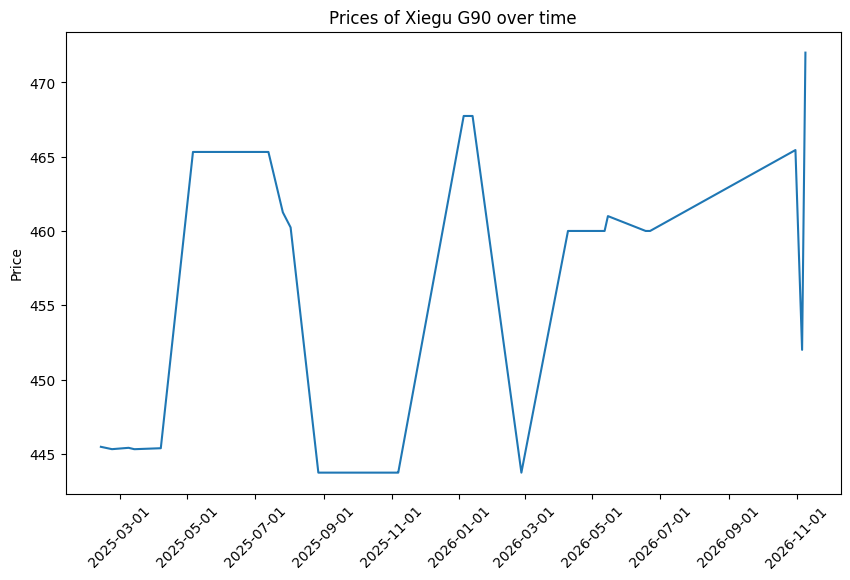
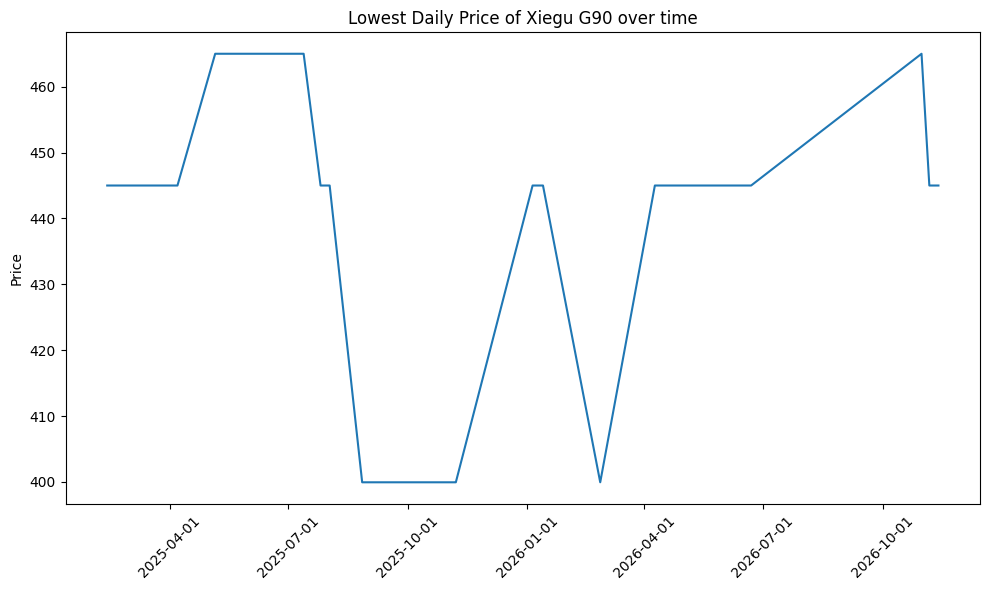
Update G90 prices and enhance scraping logic for improved accuracy and data visualization

diff --git a/scrape.py b/scrape.py
@@ -4,19 +4,22 @@ from bs4 import BeautifulSoup
 from datetime import datetime
 from urllib.parse import urlparse
 import matplotlib.pyplot as plt
+import matplotlib.dates as mdates
 
-urls = ['https://www.hamradio.com/detail.cfm?pid=H0-016772', 
-        'https://www.radioddity.com/products/xiegu-g90-hf-transceiver',
-        'https://www.amazon.com/dp/B08X6Z6KN2', 
-        'https://www.randl.com/index.php?main_page=product_info&products_id=75815']
-hostname = None
+URLS = [
+    'https://www.hamradio.com/detail.cfm?pid=H0-016772',
+    'https://www.radioddity.com/products/xiegu-g90-hf-transceiver',
+    'https://www.amazon.com/dp/B08X6Z6KN2',
+    'https://www.randl.com/index.php?main_page=product_info&products_id=75815'
+]
 
-prices = []
-price = None
+DB_FILE = 'G90_prices.db'
+IMAGE_FILE = 'G90_prices.png'
 
 
-def addToDatabase(price, url):
-	conn = sqlite3.connect('G90_prices.db')
+def add_to_database(price, url):
+	"""Save price to database."""
+	conn = sqlite3.connect(DB_FILE)
 	c = conn.cursor()
 	c.execute('CREATE TABLE IF NOT EXISTS prices (date text, price text, website text)')
 	hostname = urlparse(url).hostname
@@ -25,136 +28,129 @@ def addToDatabase(price, url):
 	conn.close()
 
 
-for url in urls:
-	page = requests.get(url)
-	soup = BeautifulSoup(page.content, 'html.parser')
-	if 'radioddity' in url:
-		# <span class="price-item price-item--sale price-item--last">
-        #   <span class="money">$445.00</span>
-        # </span>
-        
-        # Use both price-item and money to get the price
-        # Get parent element .price-item
-		parent = soup.find('span', class_='price-item')
-		if parent:
-			money_span = parent.find('span', class_='money')
-			if money_span:
-				price = money_span.text
-			else:
-				price = 'Not available'
+def extract_price_radioddity(soup):
+	"""Extract price from Radioddity product page."""
+	parent = soup.find('span', class_='price-item')
+	if parent:
+		money_span = parent.find('span', class_='money')
+		return money_span.text if money_span else 'Not available'
+	return 'Not available'
+
+
+def extract_price_amazon(soup):
+	"""Extract price from Amazon product page."""
+	parent = soup.find_all('span', class_='a-offscreen')
+	return parent[0].text if parent else 'Not available'
+
+
+def extract_price_hamradio(soup):
+	"""Extract price from Hamradio product page."""
+	parent = soup.find('p', class_='addtoCart')
+	if parent:
+		strong = parent.find('strong')
+		return strong.text if strong else 'Not available'
+	return 'Not available'
+
+
+def extract_price_randl(soup):
+	"""Extract price from R&L Electronics product page."""
+	parent = soup.find('h2', id='productPrices')
+	if parent:
+		span = parent.find('span', class_='productBasePrice')
+		return span.text.strip() if span else 'Not available'
+	return 'Not available'
+
+
+def scrape_prices(urls):
+	"""Scrape prices from all URLs."""
+	prices = []
+	for url in urls:
+		page = requests.get(url)
+		soup = BeautifulSoup(page.content, 'html.parser')
+
+		if 'radioddity' in url:
+			price = extract_price_radioddity(soup)
+		elif 'amazon' in url:
+			price = extract_price_amazon(soup)
+		elif 'hamradio' in url:
+			price = extract_price_hamradio(soup)
+		elif 'randl' in url:
+			price = extract_price_randl(soup)
 		else:
 			price = 'Not available'
 
-	elif 'amazon' in url:
-		# <div id="corePrice_feature_div" class="celwidget" data-feature-name="corePrice" data-csa-c-type="widget" data-csa-c-content-id="corePrice" data-csa-c-slot-id="corePrice_feature_div" data-csa-c-asin="B08X6Z6KN2" data-csa-c-is-in-initial-active-row="false" data-csa-c-id="5xz4s9-c15z71-4jbniq-44u0de" data-cel-widget="corePrice_feature_div">
-        # <div data-csa-c-type="widget" data-csa-c-slot-id="apex_dp_offer_display" data-csa-c-content-id="apex_with_rio_cx" data-csa-c-id="9meg2n-xob7h1-fidyg-hdg9e3">
-        # <div class="a-section a-spacing-micro">
-        # <div class="a-section apex-core-price-identifier"> 
-        # <span class="a-price aok-align-center apex-pricetopay-value" data-a-size="xl" data-a-color="base">
-        # <span class="a-offscreen">$465.00</span><span aria-hidden="true">
-        # <span class="a-price-symbol">$</span>
-        # <span class="a-price-whole">465<span class="a-price-decimal">.</span></span>
-        # <span class="a-price-fraction">00</span></span></span>
-        # <span id="taxInclusiveMessage" class="a-size-mini a-color-base aok-align-center aok-nowrap"></span>
-        # </div></div></div>
+		prices.append(price)
+		if price != 'Not available':
+			add_to_database(price, url)
 
-		corePrice_feature_div = soup.find('div', id='corePrice_feature_div')
-		parent = soup.find_all('span', class_='a-offscreen')
-		if parent:
-			price = parent[0].text
-		else:
-			price = 'Not available'
-
-	elif 'hamradio' in url:
-		parent = soup.find('p', class_='addtoCart')
-		# Get the child strong element and get the inner text
-		if parent:
-			strong = parent.find('strong')
-			if strong:
-				price = strong.text
-			else:
-				price = 'Not available'
-		else:
-			price = 'Not available'
-  
-	elif 'randl' in url:
-		parent = soup.find('h2', id='productPrices')
-		if parent:
-			span = parent.find('span', class_='productBasePrice')
-			if span:
-				price = span.text.strip()
-			else:
-				price = 'Not available'
-		else:
-			price = 'Not available'
+	return prices
 
 
-	prices.append(price)
-	addToDatabase(price, url)
-	
- 
- 
-# Filter out 'Not available' prices for calculations
-valid_prices = [float(price.replace('$', '')) for price in prices if price != 'Not available']
+def print_daily_summary(prices):
+	"""Print pricing summary."""
+	valid_prices = [float(price.replace('$', '')) for price in prices if price != 'Not available']
 
-if valid_prices:
-	average_price = str(sum(valid_prices) / len(valid_prices))
-	# round to 2 decimal places
-	average_price = "{:.2f}".format(float(average_price))
-else:
-	average_price = 'N/A'
+	print("The prices of the Xiegu G90 are:")
+	print(prices)
+	print(f"On today, {datetime.today().strftime('%Y-%m-%d')}:")
 
-print("The prices of the Xiegu G90 are:")
-print(prices)
-print("On today, " + datetime.today().strftime('%Y-%m-%d') + ":")
-print("The average price is $" + average_price)
+	if valid_prices:
+		average_price = "{:.2f}".format(sum(valid_prices) / len(valid_prices))
+		print(f"The average price is ${average_price}")
 
-if valid_prices:
-	lowest_price = min(valid_prices)
-	lowest_price_str = "${:.2f}".format(lowest_price)
-	# Find the index of the price in the original list
-	for i, price in enumerate(prices):
-		if price == lowest_price_str:
-			lowest_price_index = i
-			break
-	print("The lowest price is $" + "{:.2f}".format(lowest_price) + " at " + urls[lowest_price_index] + ", which is $" + ("{:.2f}".format(abs(lowest_price - float(average_price)))) + " less than the average price.")
+		lowest_price = min(valid_prices)
+		lowest_price_str = f"${lowest_price:.2f}"
+
+		for i, price in enumerate(prices):
+			if price == lowest_price_str:
+				difference = abs(lowest_price - float(average_price))
+				print(f"The lowest price is ${lowest_price:.2f} at {URLS[i]}, which is ${difference:.2f} less than the average price.")
+				break
+	else:
+		print("The average price is N/A")
 
 
-# Generate a graphic with the prices over time
-# Get the dates from the database
-conn = sqlite3.connect('G90_prices.db')
-c = conn.cursor()
-c.execute('SELECT date, price FROM prices')
-rows = c.fetchall()
-dates = []
-prices = []
-for row in rows:
-	# Skip 'Not available' prices
-	if row[1] != 'Not available':
-		dates.append(row[0])
-		prices.append(float(row[1]))
-conn.close()
+def generate_graph():
+	"""Generate price trend graph from database."""
+	conn = sqlite3.connect(DB_FILE)
+	c = conn.cursor()
+	c.execute('SELECT date, price FROM prices')
+	rows = c.fetchall()
+	conn.close()
 
-# average the prices for the same date
-date_price_dict = {}
-for date, price in zip(dates, prices):
-	# group prices by date
-	date_price_dict.setdefault(date, []).append(price)
+	if not rows:
+		print("No price data available to plot.")
+		return
 
-# sort dates so the plot is chronological
-dates = sorted(date_price_dict.keys())
-prices = [sum(date_price_dict[date]) / len(date_price_dict[date]) for date in dates]
+	dates = []
+	prices = []
+	for date, price in rows:
+		if price != 'Not available':
+			dates.append(date)
+			prices.append(float(price))
 
-# Convert dates to datetime objects for plotting
-import matplotlib.dates as mdates
-dates_dt = [datetime.strptime(date, '%Y-%m-%d') for date in dates]
-# Plot the prices using matplotlib date converter
-plt.figure(figsize=(10, 6))
-plt.plot(mdates.date2num(dates_dt), prices)
-plt.gca().xaxis.set_major_formatter(mdates.DateFormatter('%Y-%m-%d'))
-plt.gca().xaxis.set_major_locator(mdates.AutoDateLocator())
-plt.ylabel('Price')
-plt.title('Prices of Xiegu G90 over time')
-plt.xticks(rotation=45)
-plt.savefig('G90_prices.png', bbox_inches='tight')
-plt.show()
+	date_price_dict = {}
+	for date, price in zip(dates, prices):
+		date_price_dict.setdefault(date, []).append(price)
+
+	sorted_dates = sorted(date_price_dict.keys())
+	min_prices = [min(date_price_dict[date]) for date in sorted_dates]
+
+	dates_dt = [datetime.strptime(date, '%Y-%m-%d') for date in sorted_dates]
+
+	plt.figure(figsize=(10, 6))
+	plt.plot(mdates.date2num(dates_dt), min_prices)
+	plt.gca().xaxis.set_major_formatter(mdates.DateFormatter('%Y-%m-%d'))
+	plt.gca().xaxis.set_major_locator(mdates.AutoDateLocator())
+	plt.ylabel('Price')
+	plt.title('Lowest Daily Price of Xiegu G90 over time')
+	plt.xticks(rotation=45)
+	plt.tight_layout()
+	plt.savefig(IMAGE_FILE, bbox_inches='tight')
+	plt.show()
+
+
+if __name__ == '__main__':
+	prices = scrape_prices(URLS)
+	print_daily_summary(prices)
+	generate_graph()
